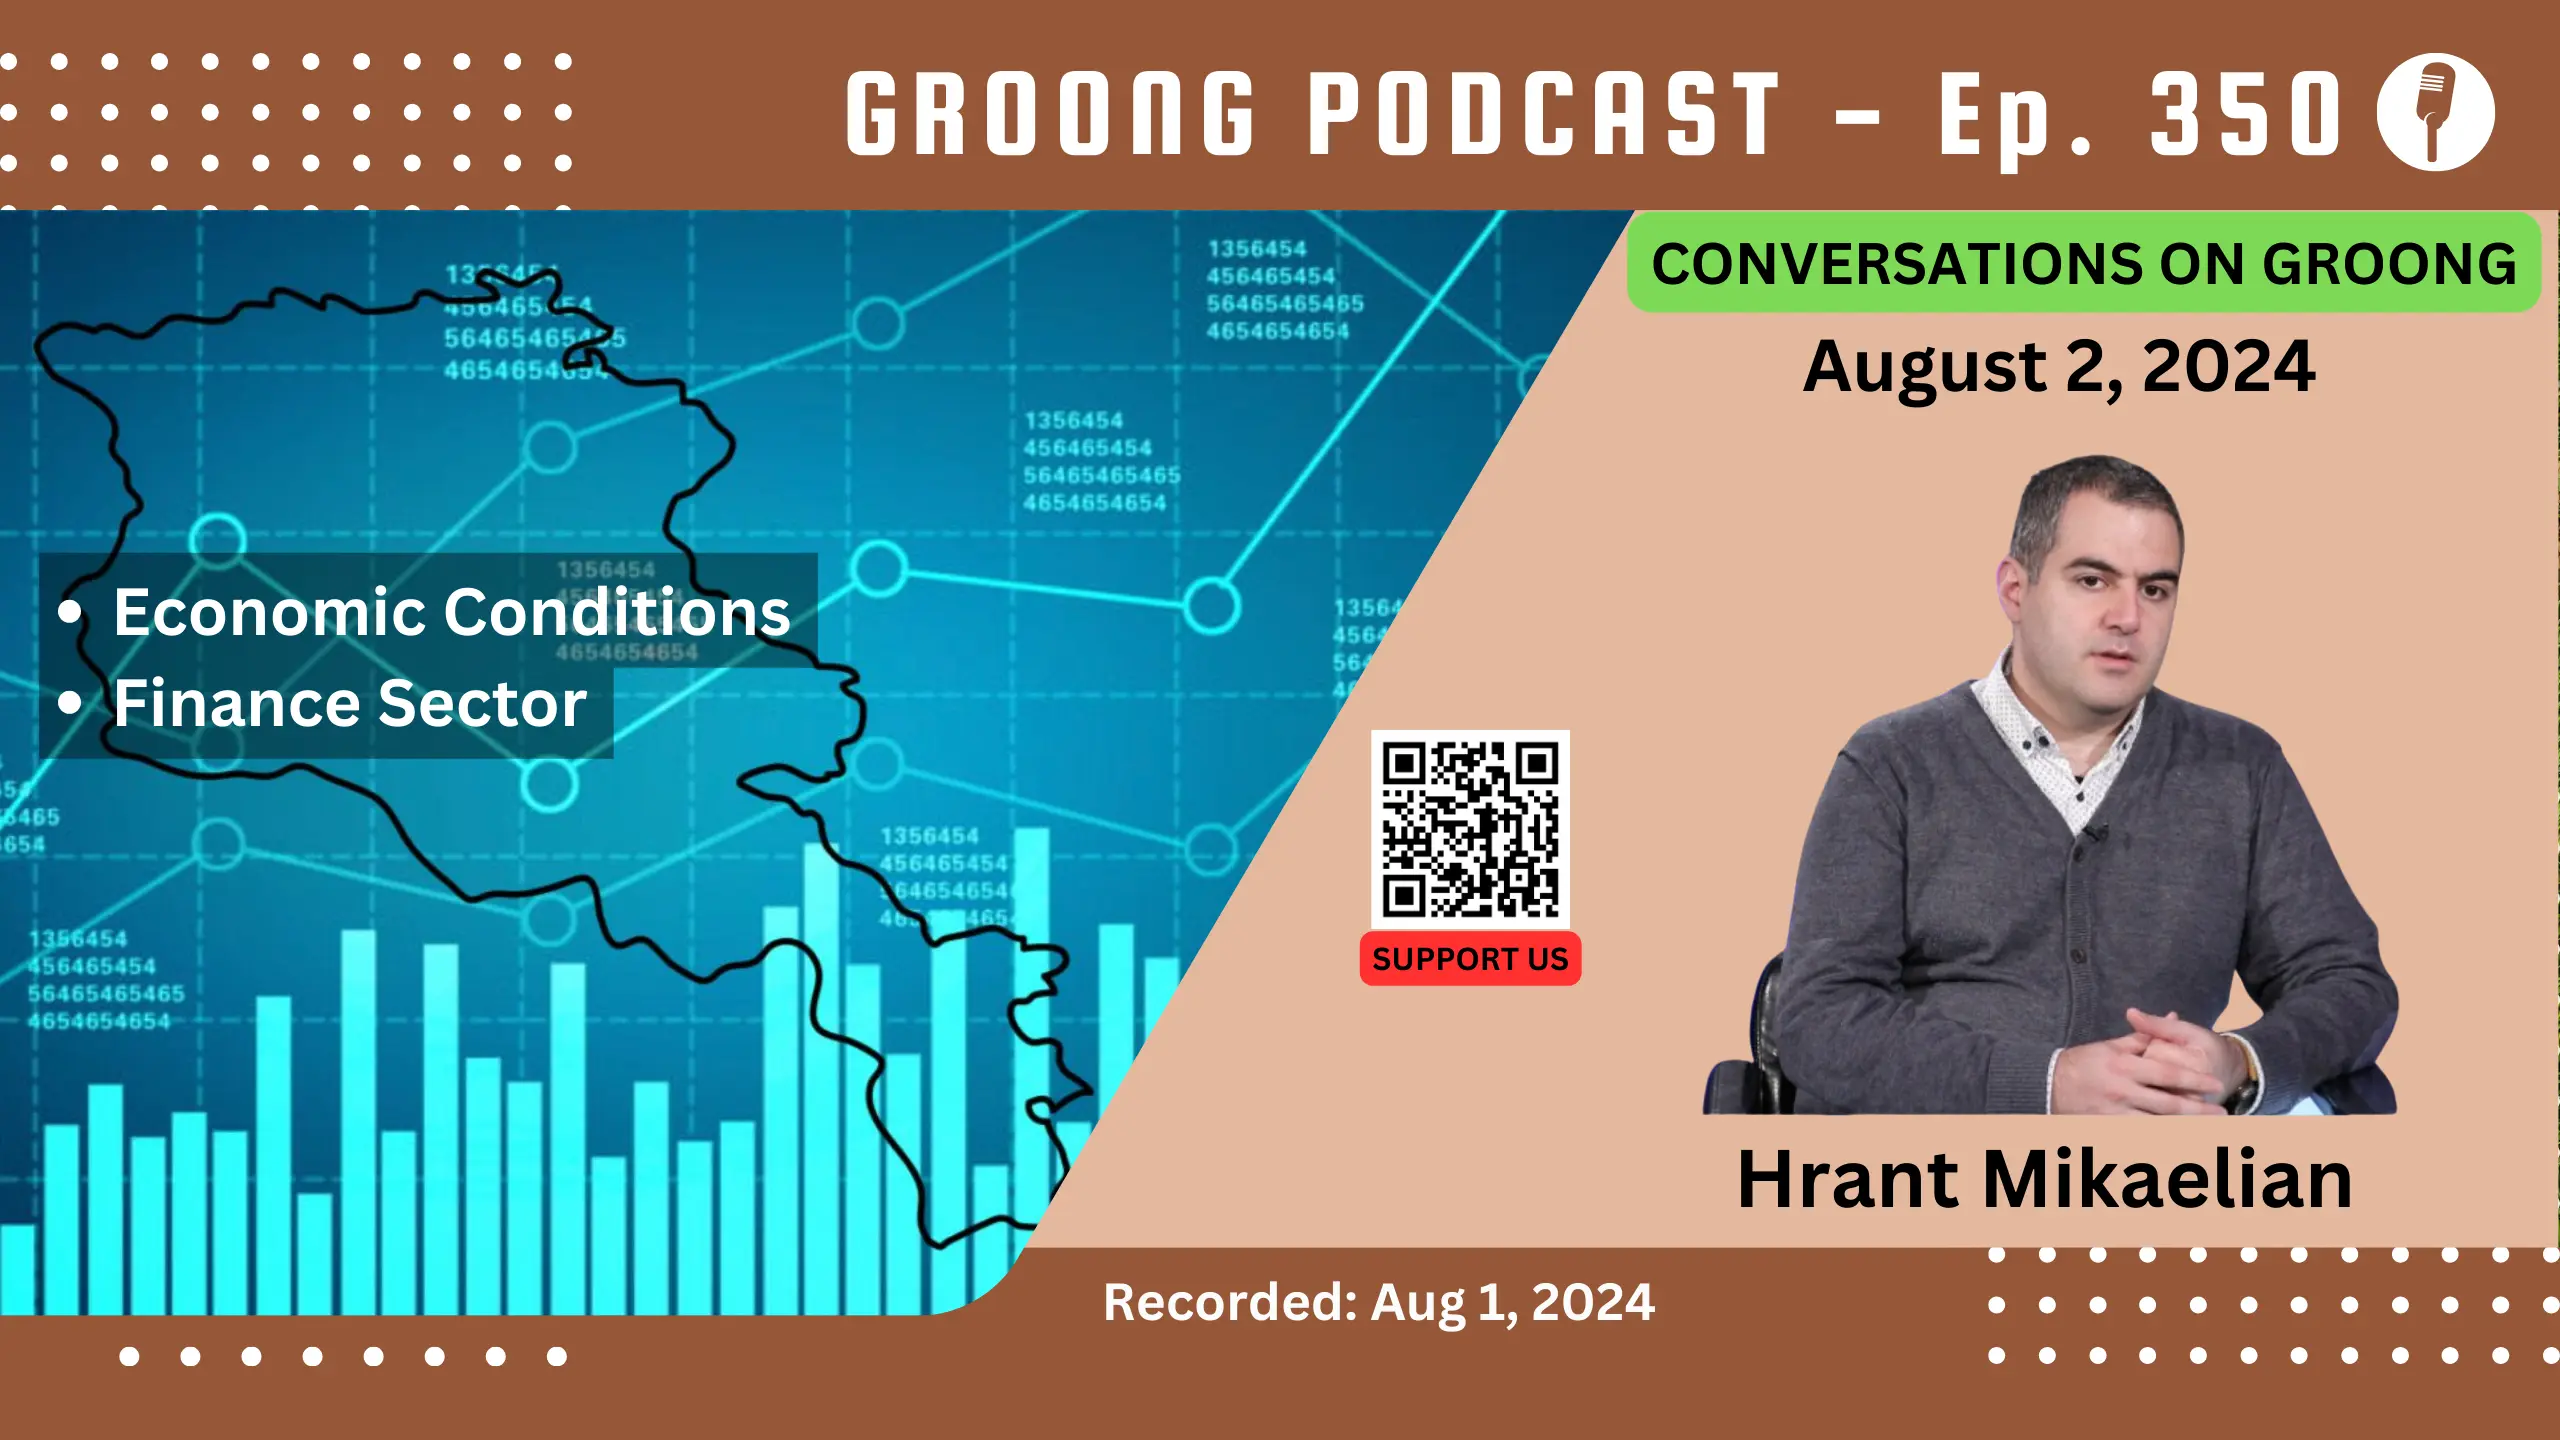
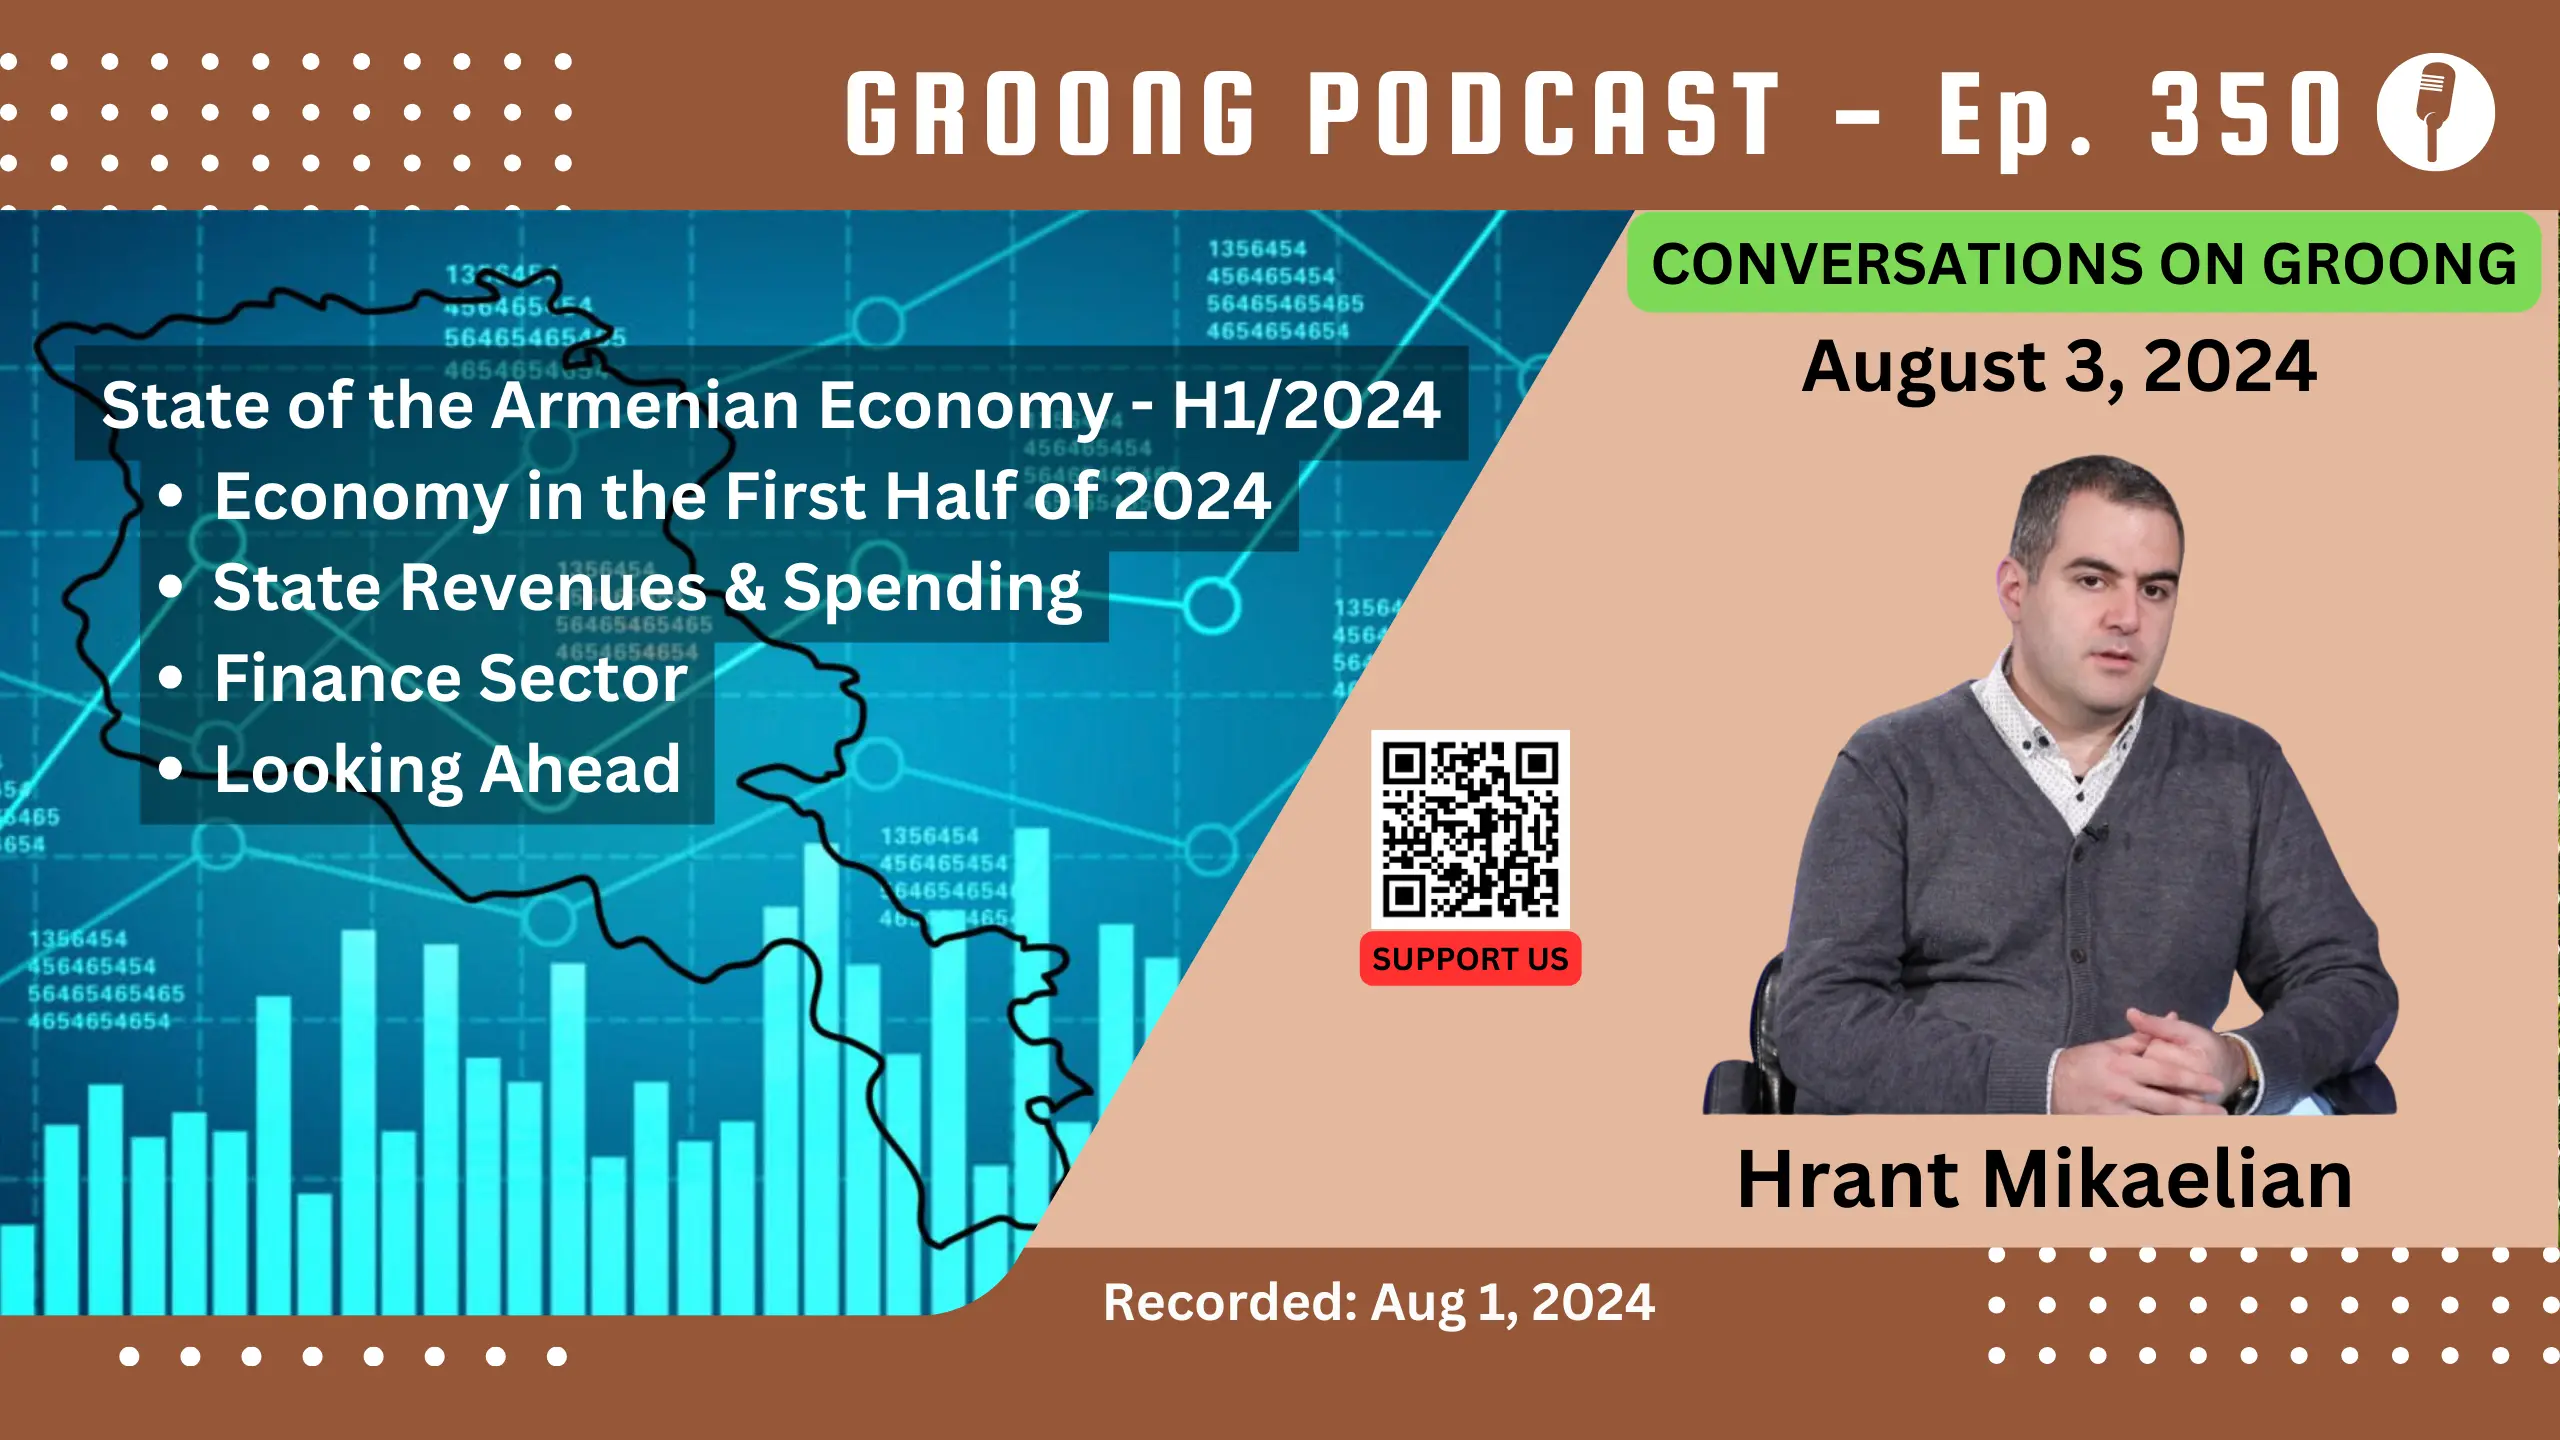
Content update & date change ep 350

Changed region(s): [[0.0, 0.2188, 0.5938, 0.5938], [0.7188, 0.25, 0.875, 0.2812]]

diff --git a/content/episode/350-hrant-mikaelian-state-of-the-armenian-economy-h1-2024.md b/content/episode/350-hrant-mikaelian-state-of-the-armenian-economy-h1-2024.md
@@ -1,5 +1,5 @@
 +++
-Date = 2024-08-02T02:00:00+04:00
+Date = 2024-08-03T02:00:00+04:00
 upcoming = true
 
 podcast_file = ""
@@ -11,8 +11,8 @@ episode_image = "img/episode/350/thumbnail-350.webp"
 episode_banner = "img/episode/350/banner-350.webp"
 images = ["img/episode/350/banner-350.webp"]
 
-title = "Hrant Mikaelian - State of the Armenian Economy - H1/2024  | Ep 350, Aug 2, 2024"
-subtitle = "Conversations on Groong - 08/02/2024"
+title = "Hrant Mikaelian - State of the Armenian Economy - H1/2024  | Ep 350, Aug 3, 2024"
+subtitle = "Conversations on Groong - 08/03/2024"
 
 guests = ["argrigoryan"]
 hosts = ["hovik","asbed"]
@@ -44,7 +44,59 @@ Episode 350 | Recorded: August 1, 2024
 
 +++
 
+# State of the Armenian Economy in the First Half of 2024
 
+## Economic Stats
+
+A week ago the [Luys Foundation](https://luys.am/) put out its [analysis](https://www.luys.am/img/artpic/small/bcfdc54eed53b47732c504-%D5%8F%D4%B1%D5%91-1-6_2024.pdf) of the Armenian economy for H1 2024, that’s the first half of this year. So our discussion is about stats that are for January through June 2024.
+
+They note that the Armenian economy is slowing down from the first quarter of the year to the second.
+
+Similarly, they point out that the import and export sectors have also slowed down, and if we ignore the import and re-export of gold, an item which is turned into Jewelry in Armenia and re-exported, then there is an actual **drop** in the export and import sectors.
+
+**Questions:**
+* What are your observations on the condition of the economy, and how do you explain the current trends?
+* We hear a lot about the booming Armenian export sector. What’s the significance of the precious stones and metals and jewelry sector? Is this a large industry, with a significant labor force? Does it contribute to a large workforce and their well being, or is it mostly a monopoly benefiting a few?
+
+
+## State Revenues
+
+The report says that although tax revenues are up 5.2% year over year since 2023, they are falling 9.1% short of projections. Meanwhile VAT and excise revenues were down 5.2 and 9.7%, depressing overall revenues.
+
+**Question:**
+* Should we worry about the shortfall, or were the projected revenues too rosy?
+
+
+### Government Spending
+
+Government spending is up 17.4%, but is also short of projections, mostly because less has been spent on the operational side, but overspent on the capital side. The report attributes capital spending increases to defense spending. (Frankly I’d love to know more, because I’ll believe it when I see it).
+
+Meanwhile Armenia’s national debt just went over $12B, up almost 10% since last year. It’s right around 50% of GDP.
+
+**Questions**:
+* With every projection off a little bit, it seems like things are happening to Armenia, rather than the other way around, with Armenia controlling its economic outlook. Plus, there’s a constant reliance on more debt. How worried should we be about this lack of control?
+* Is there a remedy to reliance on external debt?
+
+
+## Finance Sector
+
+On the financial side, it looks like inflation is mostly under control in Armenia, despite a minor uptick in the last couple of months. Two days ago the Central Bank of Armenia (CBA) reduced the refi rate by another quarter; today it stands at 7.75%.
+
+**Questions:**
+* What are your thoughts about the current state of monetary policy?
+    * Was the reduction a response to the slowing economy?
+* The Dram rate has been reasonably stable, maybe a little strong, over the past year. What are the reasons for it, and how is it affecting the Armenian economy?
+* Consumer and mortgage loans are up almost 20% over 2023. What do you attribute this to, and is this a good thing?
+    * Are peoples’ wages keeping up with their debts?
+
+
+## Looking ahead
+
+**Questions:**
+* If people want to follow how the Armenian economy is doing and where it’s going, what resources are available to them?
+* 
+* What key economic leading indicators are available for Armenia?
+* What are they showing about where this economy is going towards the end of the year?
 
 
 # Wrap-up
